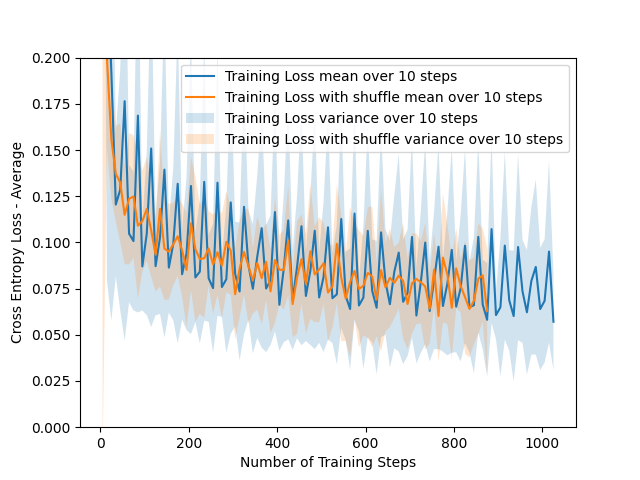
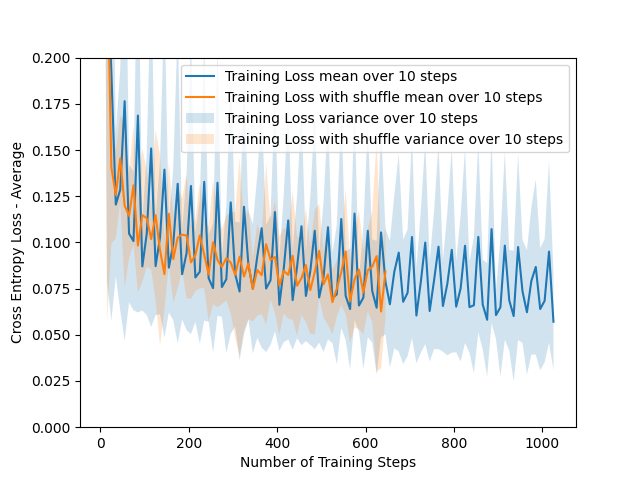
Added the functions from assignment 1

Changed region(s): [[0.1562, 0.125, 0.7812, 0.7812]]

diff --git a/assignment2/task2a.py b/assignment2/task2a.py
@@ -20,15 +20,18 @@ def pre_process_images(X: np.ndarray):
 def cross_entropy_loss(targets: np.ndarray, outputs: np.ndarray):
     """
     Args:
-        targets: labels/targets of each image of shape: [batch size, num_classes]
-        outputs: outputs of model of shape: [batch size, num_classes]
+        targets: labels/targets of each image of shape: [batch size, 1]
+        outputs: outputs of model of shape: [batch size, 1]
     Returns:
         Cross entropy error (float)
     """
+    # TODO implement this function (Task 2a)
     assert targets.shape == outputs.shape,\
         f"Targets shape: {targets.shape}, outputs: {outputs.shape}"
-    # TODO: Implement this function (copy from last assignment)
-    raise NotImplementedError
+
+    C = 1/targets.shape[0]*np.sum(-(targets * np.log(outputs) + (1 - targets)*np.log(1 - outputs)))
+
+    return C
 
 
 class SoftmaxModel:
@@ -107,7 +110,12 @@ def one_hot_encode(Y: np.ndarray, num_classes: int):
         Y: shape [Num examples, num classes]
     """
     # TODO: Implement this function (copy from last assignment)
-    raise NotImplementedError
+    Ys = np.zeros((Y.shape[0], num_classes), dtype=int)
+    
+    for i in range(Y.shape[0]):
+        Ys[i, Y[i]] = 1
+
+    return Ys
 
 
 def gradient_approximation_test(

diff --git a/assignment2/trainer.py b/assignment2/trainer.py
@@ -73,6 +73,9 @@ class BaseTrainer:
         )
 
         global_step = 0
+        counter = 0
+        low_lost = float('inf')
+
         for epoch in range(num_epochs):
             train_loader = utils.batch_loader(
                 self.X_train, self.Y_train, self.batch_size, shuffle=self.shuffle_dataset)
@@ -88,5 +91,12 @@ class BaseTrainer:
                     val_history["loss"][global_step] = val_loss
                     val_history["accuracy"][global_step] = accuracy_val
                     # TODO: Implement early stopping (copy from last assignment)
+                    counter += 1
+                    if (val_history["loss"][global_step] < low_lost):
+                        low_lost = val_history["loss"][global_step]
+                        counter = 0
+                    if (counter > 49):
+                        print("Stopped at", epoch, "epochs")
+                        return train_history, val_history
                 global_step += 1
         return train_history, val_history

diff --git a/assignment2/utils.py b/assignment2/utils.py
@@ -2,6 +2,7 @@ from typing import Generator
 import mnist
 import numpy as np
 import matplotlib.pyplot as plt
+import random
 
 
 def batch_loader(
@@ -26,6 +27,9 @@ def batch_loader(
     indices = list(range(len(X)))
 
     # TODO (copy from last assignment) implement dataset shuffling here.
+
+    if(shuffle):
+        random.shuffle(indices)
 
     for i in range(num_batches):
         # select a set of indices for each batch of samples
